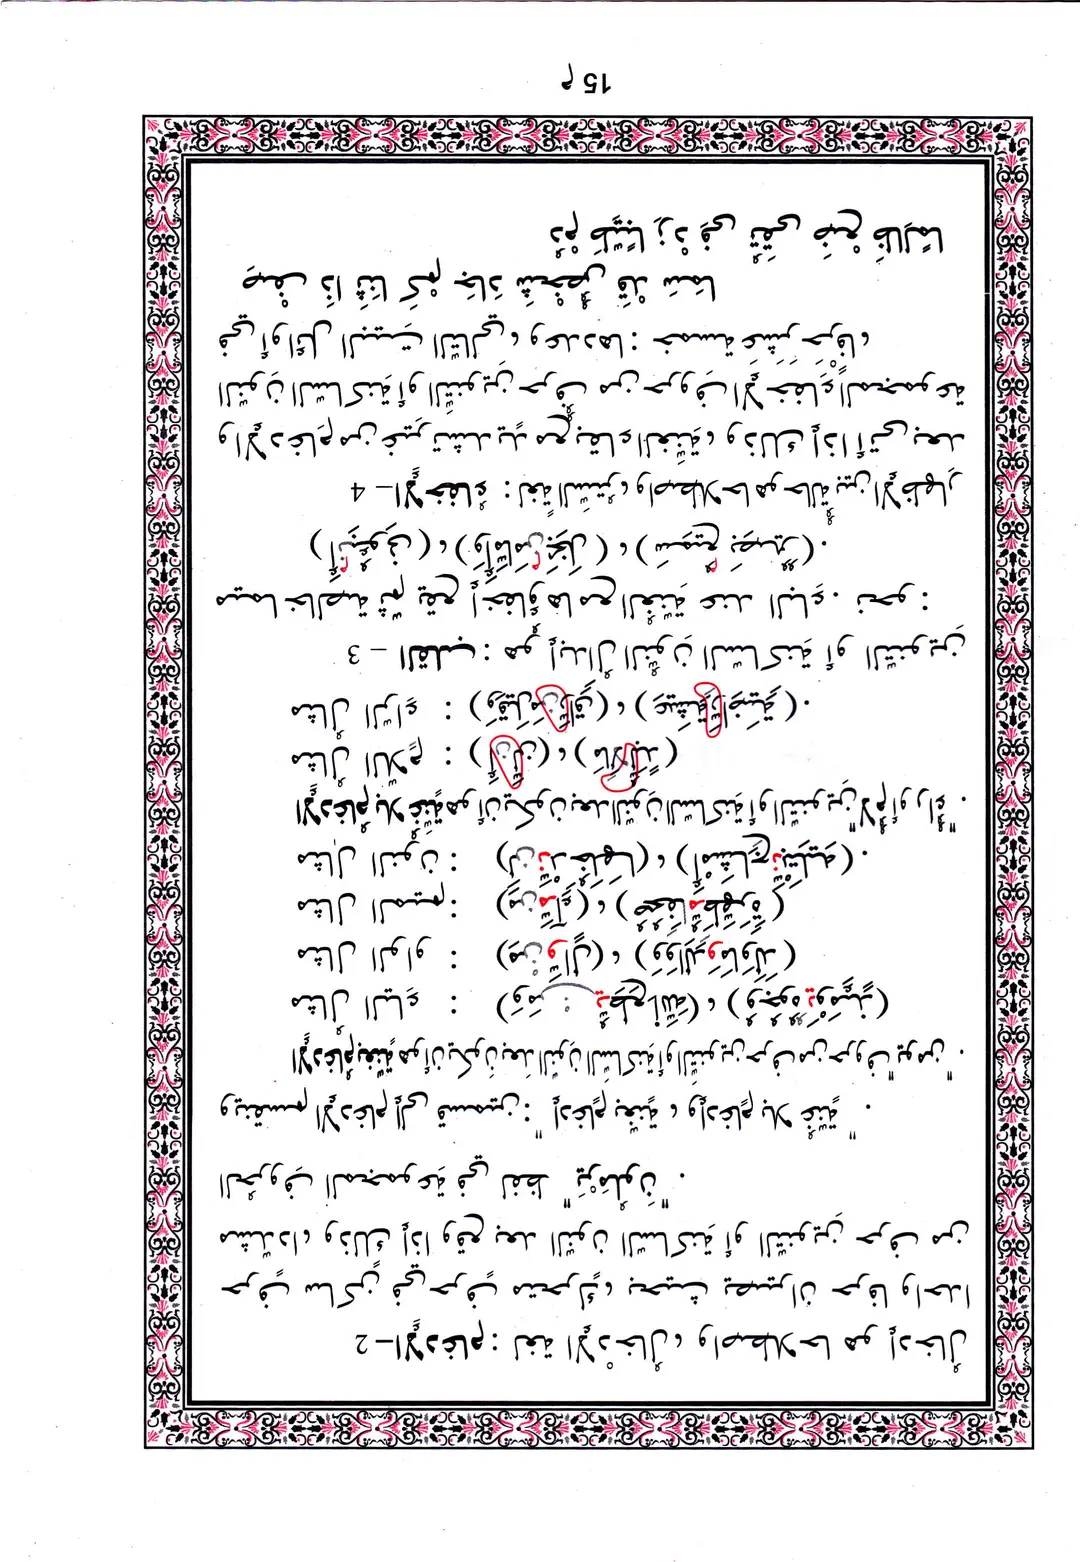
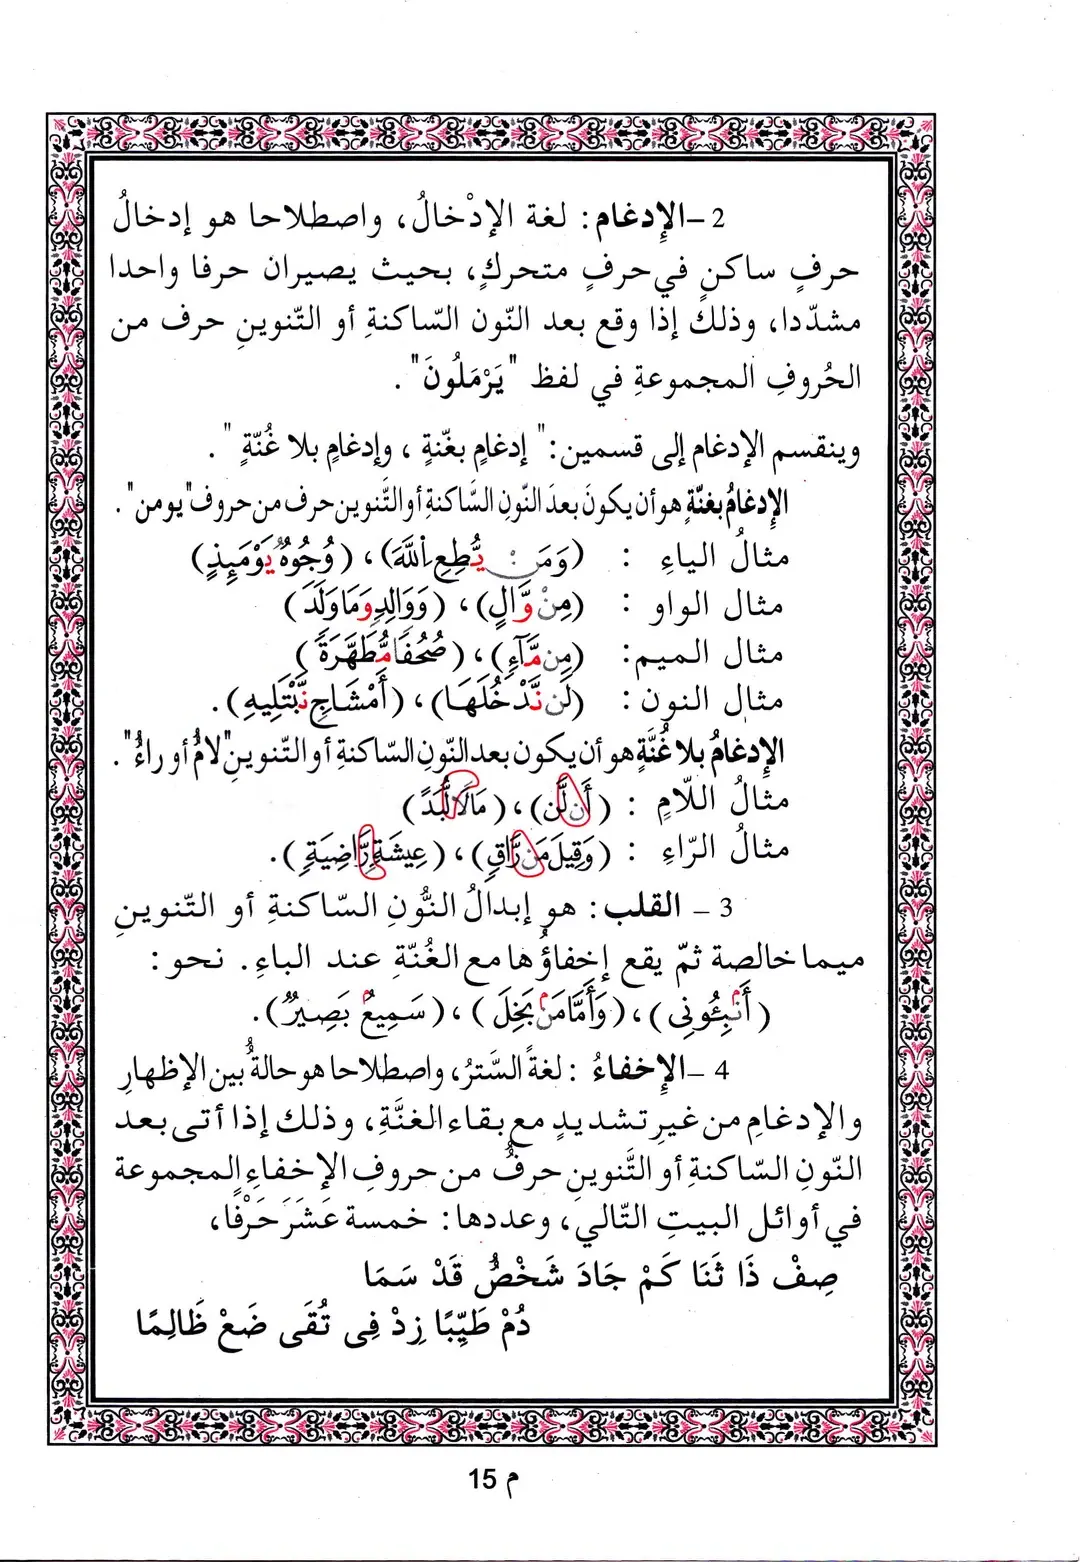
Corrige la page 620 scannée à l'envers
app/assets/pages/page_0620.webp était inversée à 180° dans le PDF
source (défaut du scan, pas un bug de code). Corrigée par simple
rotation, aucune autre retouche. Vérification visuelle des pages
606-627 par la même occasion : aucune autre anomalie trouvée.

Changed region(s): [[0.0306, 0.0307, 0.9778, 0.9526], [0.0, 0.9834, 0.1222, 1.0]]

diff --git a/.ia/DATA_SOURCES.md b/.ia/DATA_SOURCES.md
@@ -44,7 +44,8 @@ Cette table doit être **vérifiée manuellement**, entrée par entrée, avant i
 - **Pagination réelle de cette édition** (numérotation interne = position dans le fichier, utilisée comme numéro de page dans l'app) :
   - Pages 1–2 : couverture + page ornementale, non numérotées, hors texte coranique.
   - Pages 3–605 : texte coranique complet (sourate 1 Al-Fatiha à la page 3, sourate 114 An-Nas commence page 605).
-  - Pages 606–627 : pages de fin. Page 606 = colophon "التعريف بهذا المصحف الشريف" confirmant que cette édition suit **la lecture de Qaloun via Nassif, transmise par Nafi' al-Madani** ("رواية قالون من طريق أبي نشيط عن نافع المدني"), rasm et arrêts conformes aux mosahef imprimés de référence, décompte selon l'école coufie (6236 versets). Contenu des pages 607–627 non inspecté en détail (probablement index des sourates / dou'a de clôture / mentions légales de l'imprimeur) — à vérifier si l'app doit les afficher ou les exclure du "livre".
+  - Pages 606–627 : pages de fin. Page 606 = colophon "التعريف بهذا المصحف الشريف" confirmant que cette édition suit **la lecture de Qaloun via Nassif, transmise par Nafi' al-Madani** ("رواية قالون من طريق أبي نشيط عن نافع المدني"), rasm et arrêts conformes aux mosahef imprimés de référence, décompte selon l'école coufie (6236 versets). Pages 607–614 : présentation de l'édition (رسم/ضبط). Pages 615–626 : règles de tajwid (waqf, noun/mim sakina, idgham, qalb, ikhfa, makharij). Page 627 : 4e de couverture. Inspecté visuellement le 2026-09-24 (voir session 9 de [PROGRESS.md](PROGRESS.md)) suite à une page trouvée à l'envers — pas d'autre anomalie sur cette plage.
+  - ⚠ **Page 620 corrigée le 2026-09-24** : scannée à l'envers dans le PDF source (rotation 180°, signalé par l'utilisateur). Corrigée en local par simple rotation de l'image extraite (`app/assets/pages/page_0620.webp`), sans autre retouche. Une vérification automatique de rotation sur l'ensemble des 627 pages n'a pas été faite (pas d'outil de détection en place) — les pages 3–605 ont été vues en détail lors de la vérification des sourates (session 6) sans qu'aucune autre anomalie de ce type saute aux yeux, mais ce n'est pas une garantie formelle. À surveiller pendant la relecture humaine ([MANUEL.md](../MANUEL.md) étape 5).
   - ⚠ Le numéro imprimé visible en bas de chaque page dans le Mosshaf est décalé de -1 par rapport à la position dans le fichier (page-fichier 5 → numéro imprimé "4"). L'app utilise la position dans le fichier comme référence (cohérent avec les noms de fichiers `page_XXXX.webp`), pas le numéro imprimé. Ce décalage est normal et sans conséquence, mais bon à savoir si quelqu'un compare visuellement avec le livre papier.
 - **Table de navigation** (`app/assets/data/navigation.json`) : 114 sourates + 30 Juz' avec page de début exacte, construite par relecture visuelle systématique de l'en-tête de chaque page (nom de sourate + "الجزء ..." en toutes lettres, très lisible) via des planches de contact générées par script, complétée par une inspection directe des pages pour les sourates courtes de fin de Coran (Juz' 30) qui ne remontent jamais en tête de page.
   - Double vérification : somme des `nombreAyat` = 6236 (= chiffre du colophon page 606) ; les 30 Juz' démarrent à un intervalle parfaitement régulier de 20 pages (page 3, 23, 43, ... 583), avec un Juz' 30 étendu à 23 pages — cohérent avec une mise en page délibérément calibrée à 20 pages par Juz'.

diff --git a/.ia/PROGRESS.md b/.ia/PROGRESS.md
@@ -4,6 +4,16 @@ Nouvelle entrée en haut du fichier, la plus récente en premier.
 
 ---
 
+## 2026-09-24 (session 9) — Page 620 à l'envers corrigée
+
+- Bug signalé par l'utilisateur : la page 620 (section tajwid des pages de fin, 606-627) s'affichait à l'envers (rotation 180°). Vérifié sur le PDF/l'image extraite : c'est **un défaut du scan source lui-même**, pas un bug de l'app (les pages 619 et 621 voisines sont correctement orientées, la page 620 seule était inversée, y compris le numéro de page imprimé "15 م" qui apparaissait en haut au lieu du bas).
+- Corrigé en pivotant l'image `app/assets/pages/page_0620.webp` de 180° (rotation seule, aucune autre retouche du contenu — conforme à la règle de ne jamais modifier le texte, cf. [INSTRUCTIONS.md](../INSTRUCTIONS.md)).
+- À cette occasion, vérification visuelle complète des pages 606-627 (jamais entièrement inspectées jusqu'ici, voir [DATA_SOURCES.md](DATA_SOURCES.md)) : aucune autre anomalie de rotation trouvée dans cette section.
+- **Non fait par manque de temps/outillage** : un contrôle automatique de rotation sur l'ensemble des 627 pages (pas seulement 606-627). Les pages 3-605 ont déjà été vues en détail lors de la vérification des sourates (session 6, 26 planches de contact couvrant l'intégralité du livre), où une page inversée aurait probablement sauté aux yeux (en-tête absent/anormal), mais ce n'est pas une garantie formelle. À garder en tête pendant la relecture humaine prévue dans [MANUEL.md](../MANUEL.md) étape 5.
+- `flutter test` : 5/5. Poussé (déploiement web automatique).
+
+---
+
 ## 2026-09-22 (session 8) — Connexion Git↔Vercel + logo/icône PWA
 
 - **Connexion GitHub↔Vercel finalisée.** Le blocage de session 7 (erreur 400) venait de l'app GitHub de Vercel non installée sur le dépôt (confirmé via l'API : `"action": "Install GitHub App"`). L'utilisateur l'a installée sur https://github.com/apps/vercel, puis `vercel git connect --yes` a fonctionné. **Chaque push sur `main` redéploie désormais automatiquement.**
